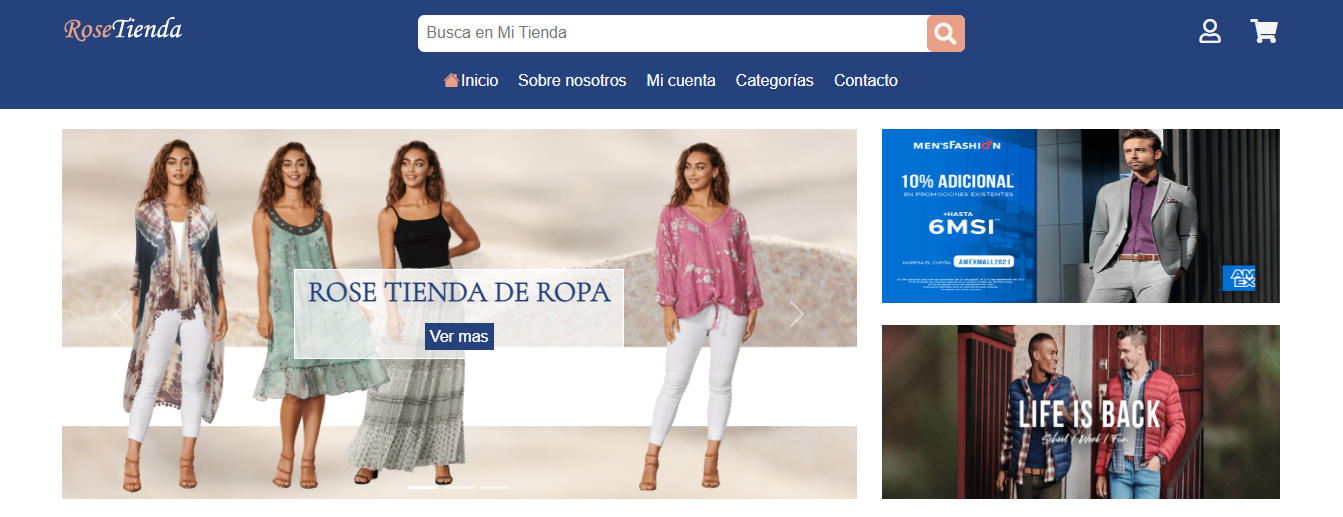
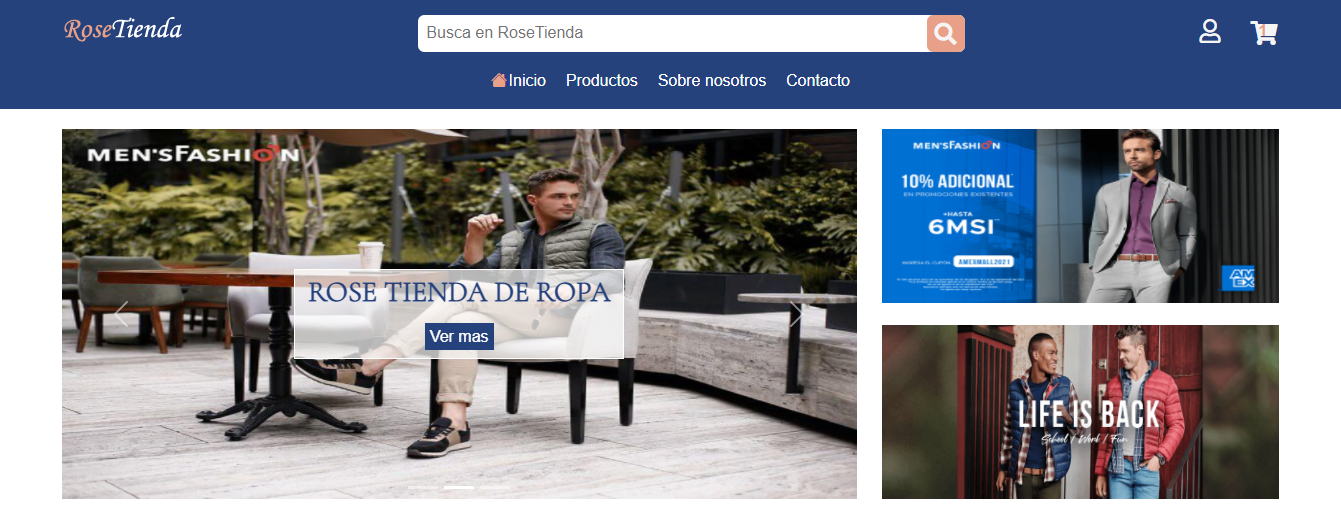
he añadido el archivo readme.md, imagen del sitio, y he modificado el archivo contactos.scss.

diff --git a/scss/_contacto.scss b/scss/_contacto.scss
@@ -54,7 +54,7 @@
     display: flex;
     justify-content: center;
     .formContact-loader,
-    .formContact-response{
+    .formContact-response {
       position: absolute;
       display: none;
       color: wheat;

diff --git a/README.md b/README.md
@@ -1,0 +1,6 @@
+# RoseTienda
+## RoseTienda creado con Html, Css, Bootstrap v.5, Sass, javaScript, Jquery y consumir API mediante AJAX y fletch.
+### Autor: Dindy Pierre
+#### Alojamiento GitHub.
+Ir al sitio [proyectofinal-coderhouse](https://dindy86.github.io/practicaformSubmit/)
+![Screenshoot](https://github.com/Dindy86/practicaformSubmit/blob/main/images/imagenrosetienda.PNG)
